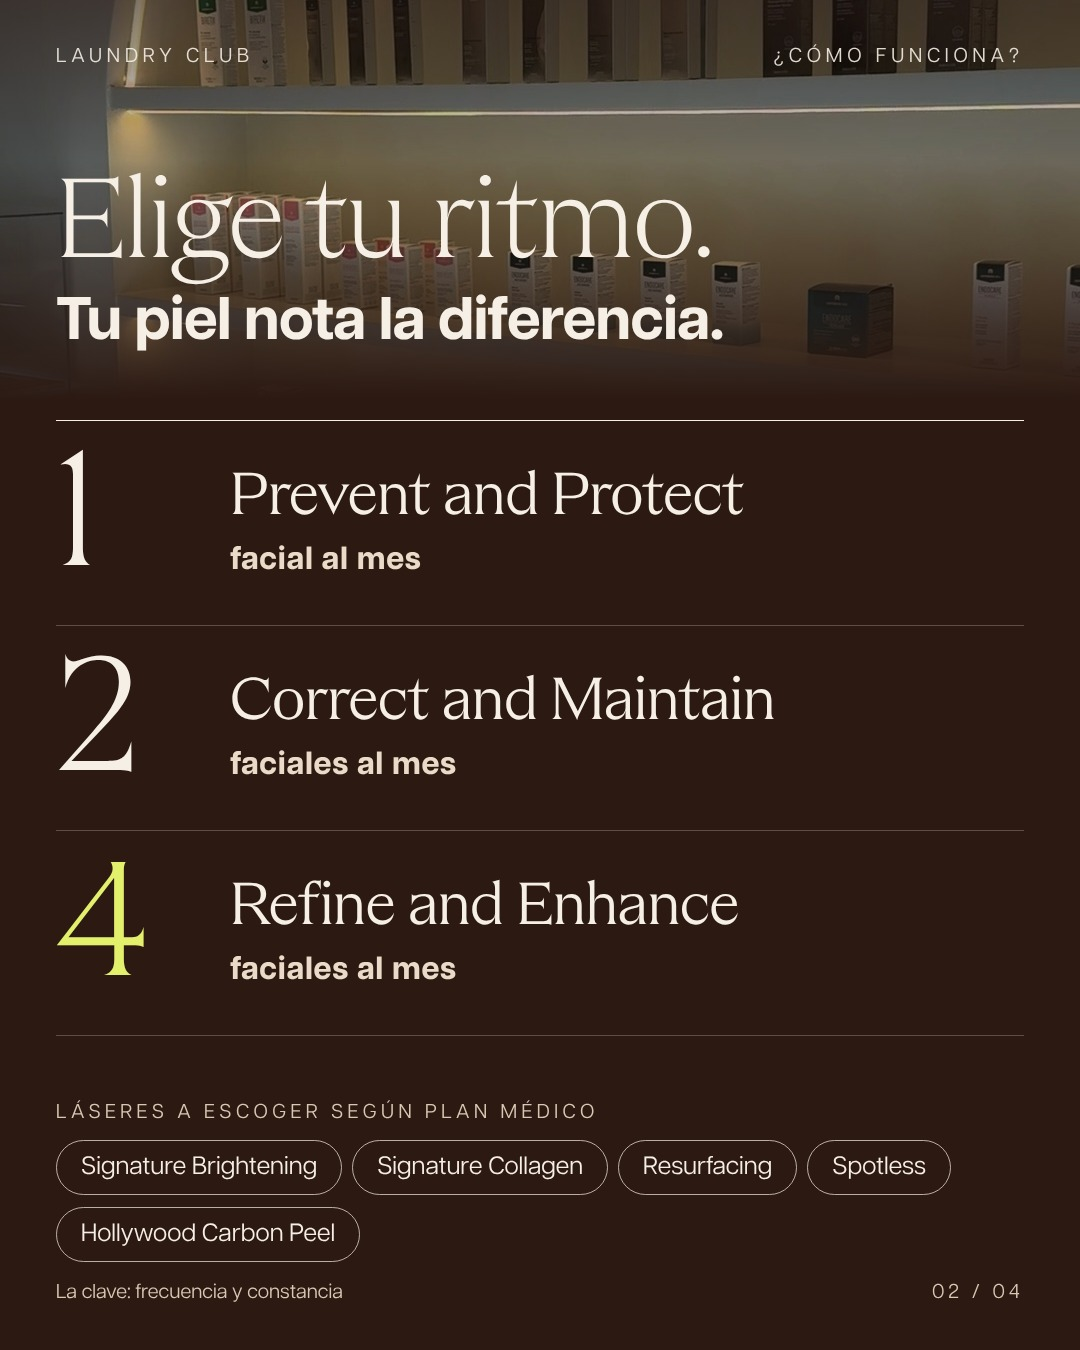
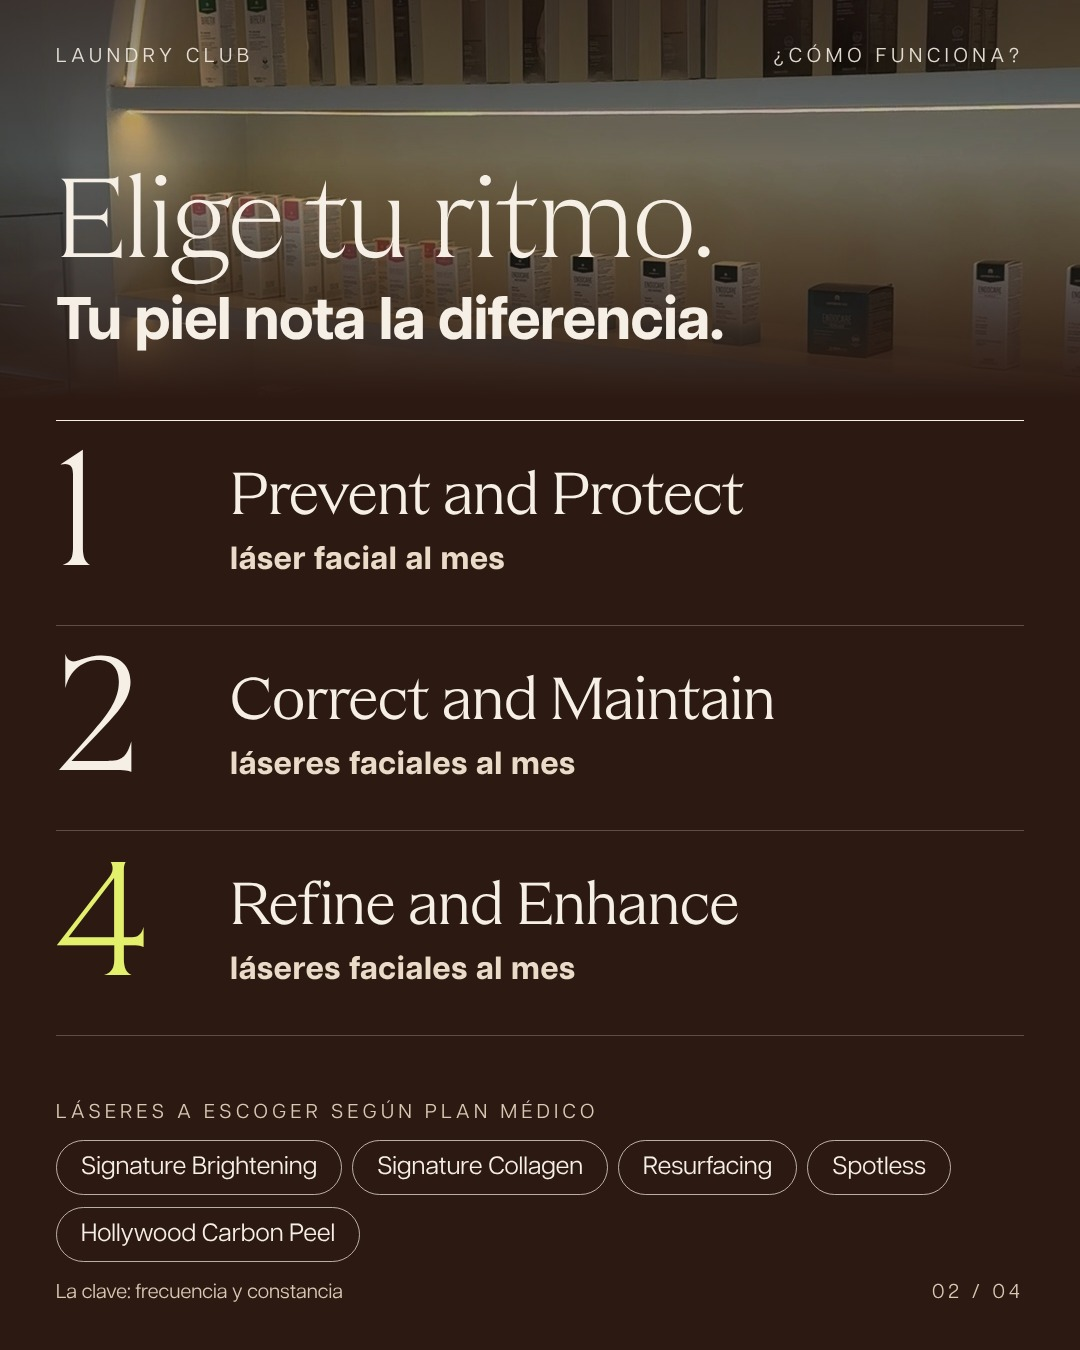
Skin Laundry nov: membresía del día 10 con «láseres faciales» en los tres planes
Claude-Session: https://claude.ai/code/session_012nXickGDk6Nm8WByDsu8ty

Changed region(s): [[0.2139, 0.6844, 0.55, 0.7467], [0.2139, 0.56, 0.55, 0.5911], [0.2139, 0.4044, 0.4583, 0.4356]]

diff --git a/public/pitch/skin-laundry-calendario/noviembre/index.html b/public/pitch/skin-laundry-calendario/noviembre/index.html
@@ -634,21 +634,21 @@ Es uno de nuestros Signature Laser Facials (250 €) y está incluido en The Lau
 
 #SkinLaundryBarcelona #LaserFacial #BrighteningLaser #PielLuminosa #MedicinaEsteticaBarcelona` },
 
-{ d:10, formato:"Carrusel", storyImg:"/pitch/skin-laundry-calendario/noviembre/img/drive-d10_story.jpg?v=11101627", cubo:"Branding", tema:"Membresía", hora:"19:30h",
+{ d:10, formato:"Carrusel", storyImg:"/pitch/skin-laundry-calendario/noviembre/img/drive-d10_story.jpg?v=11101711", cubo:"Branding", tema:"Membresía", hora:"19:30h",
   pieza:"Tu piel, en modo constancia",
   base:"Folleto oficial de membresía (Brochure ES 25.02.25)", cta:"Hazte miembro",
   nota:"Planes, permanencia (3 meses), tipografía y alta (online o en clínica, sin botón) corregidos por la clienta el 10/11 · resto de datos del folleto oficial · sin precios",
-  media:"/pitch/skin-laundry-calendario/noviembre/img/drive-d10_1.jpg?v=11101627", slides:["/pitch/skin-laundry-calendario/noviembre/img/drive-d10_1.jpg?v=11101627","/pitch/skin-laundry-calendario/noviembre/img/drive-d10_2.jpg?v=11101627","/pitch/skin-laundry-calendario/noviembre/img/drive-d10_3.jpg?v=11101627","/pitch/skin-laundry-calendario/noviembre/img/drive-d10_4.jpg?v=11101627"],
+  media:"/pitch/skin-laundry-calendario/noviembre/img/drive-d10_1.jpg?v=11101711", slides:["/pitch/skin-laundry-calendario/noviembre/img/drive-d10_1.jpg?v=11101711","/pitch/skin-laundry-calendario/noviembre/img/drive-d10_2.jpg?v=11101711","/pitch/skin-laundry-calendario/noviembre/img/drive-d10_3.jpg?v=11101711","/pitch/skin-laundry-calendario/noviembre/img/drive-d10_4.jpg?v=11101711"],
   idea:["1 · Tu piel, en modo constancia","2 · Elige tu ritmo: Prevent and Protect, Correct and Maintain y Refine and Enhance (1, 2 o 4 al mes) + láseres a escoger","3 · Todos los planes incluyen: descuentos, ofertas con marcas afines y Laundry Token Loyalty","4 · Hazte miembro: online o en clínica, permanencia mínima de 3 meses y Diagonal 610"],
-  story:["Nuevo post: Tu piel, en modo constancia · 1, 2 o 4 faciales al mes","Sticker de enlace: descubre todas las ventajas"],
+  story:["Nuevo post: Tu piel, en modo constancia · 1, 2 o 4 láseres faciales al mes","Sticker de enlace: descubre todas las ventajas"],
   copy:`Tu piel, en modo constancia 🤍
 
 Una piel radiante no ocurre por casualidad: requiere constancia, asesoramiento experto y una rutina que evolucione contigo. Por eso existe The Laundry Club, nuestra membresía.
 
 Elige tu ritmo:
-✨ Prevent and Protect · 1 facial al mes
-✨ Correct and Maintain · 2 faciales al mes
-✨ Refine and Enhance · 4 faciales al mes
+✨ Prevent and Protect · 1 láser facial al mes
+✨ Correct and Maintain · 2 láseres faciales al mes
+✨ Refine and Enhance · 4 láseres faciales al mes
 
 Todos los planes incluyen descuentos en add-ons, productos Skin Laundry, otros tratamientos láser y medicina estética, ofertas exclusivas con marcas afines y acceso a Laundry Token Loyalty, nuestro programa de fidelización.
 
